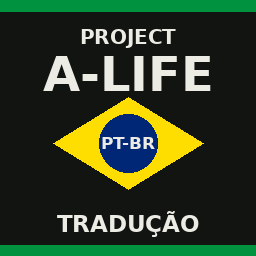
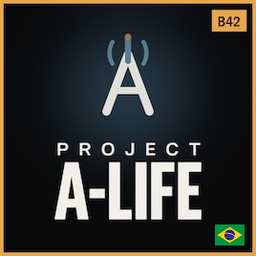
Capa, pôster e ícone a partir da arte feita pelo Hugo

diff --git a/tools/make_art.py b/tools/make_art.py
@@ -43,6 +43,9 @@ def card(size):
 
 
 def main():
+    if (OUT / 'source' / 'capa.png').exists():
+        # art/ now comes from the cover the user drew (art/source/capa.png); don't overwrite it.
+        raise SystemExit('art/source/capa.png existe: a arte vem da capa do usuário, nada foi gerado.')
     OUT.mkdir(exist_ok=True)
     card(512).save(OUT / 'poster.png')
     card(256).save(OUT / 'preview.png')
